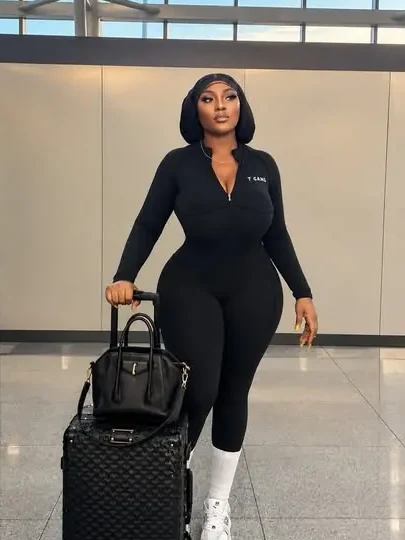
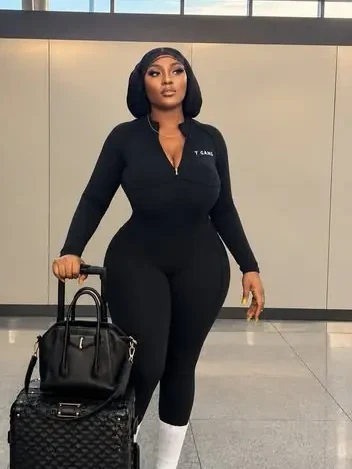
v17: tighter hero crop to remove airport sign

diff --git a/index.html b/index.html
@@ -1,7 +1,7 @@
 <!doctype html><html lang="en"><head><meta charset="utf-8"><meta name="viewport" content="width=device-width,initial-scale=1">
 <title>T.GANG — Chic & Gym Wear, Lagos</title><meta name="description" content="T.GANG: chic gym and activewear from Lagos. Matching sets, bodysuits, rompers and leggings. Shipping across Nigeria, Ghana and worldwide.">
-<link rel="preconnect" href="https://fonts.googleapis.com"><link rel="preconnect" href="https://fonts.gstatic.com" crossorigin><link rel="preconnect" href="https://cdn.jsdelivr.net" crossorigin><link rel="preload" as="image" href="assets/s/tg-06h.webp" fetchpriority="high"><link href="https://fonts.googleapis.com/css2?family=Cormorant+Garamond:ital,wght@0,300;0,400;0,500;1,300;1,400&family=Manrope:wght@400;500;600&display=swap" rel="stylesheet" media="print" onload="this.media='all'"><noscript><link href="https://fonts.googleapis.com/css2?family=Cormorant+Garamond:ital,wght@0,300;0,400;0,500;1,300;1,400&family=Manrope:wght@400;500;600&display=swap" rel="stylesheet"></noscript>
-<link rel="icon" href="assets/logo.jpg"><link rel="stylesheet" href="style.css?v=202610282367"></head><body>
+<link rel="preconnect" href="https://fonts.googleapis.com"><link rel="preconnect" href="https://fonts.gstatic.com" crossorigin><link rel="preconnect" href="https://cdn.jsdelivr.net" crossorigin><link rel="preload" as="image" href="assets/s/tg-06h.webp?v=2" fetchpriority="high"><link href="https://fonts.googleapis.com/css2?family=Cormorant+Garamond:ital,wght@0,300;0,400;0,500;1,300;1,400&family=Manrope:wght@400;500;600&display=swap" rel="stylesheet" media="print" onload="this.media='all'"><noscript><link href="https://fonts.googleapis.com/css2?family=Cormorant+Garamond:ital,wght@0,300;0,400;0,500;1,300;1,400&family=Manrope:wght@400;500;600&display=swap" rel="stylesheet"></noscript>
+<link rel="icon" href="assets/logo.jpg"><link rel="stylesheet" href="style.css?v=202610282368"></head><body>
 <div class="salebar"><a href="#shop" id="salelink"><b>The Sale</b> · up to 30% off selected pieces <span>· example prices</span></a></div>
 <header class="nav lux"><a href="#top" class="logo"><img class="mono" src="assets/logo.jpg" alt="T.GANG logo"><span>T.GANG</span></a>
 <nav class="pnav" aria-label="Primary"><a href="#shop">Shop</a><a href="#shop" data-cat="Lounge Outfits">Lounge</a><a href="#shop" data-cat="Active Wear">Active</a><a href="#shop" data-cat="Accessories">Accessories</a><a href="#drop">New drop</a><a href="rewards.html">Rewards</a><div class="more"><button type="button" class="morebtn" aria-expanded="false" aria-haspopup="true" aria-controls="moremenu">Discover <span class="chev" aria-hidden="true"></span></button><div class="moremenu" id="moremenu"><a href="#lookbook">Shop the look</a><a href="#build">Build your set</a><a href="#quiz">Style quiz</a><a href="giftcards.html">Gift cards</a></div></div></nav>
@@ -70,4 +70,4 @@
 <section class="v-proc"><div class="spin"></div><h3>Processing payment…</h3><p class="note">Please don't close this page.</p></section>
 <section class="v-ok"><div class="tick">✓</div><p class="eyebrow">Order confirmed</p><h3>Thank you, <span id="sname"></span>.</h3><p>Your order reference</p><div class="ref" id="sref"></div><p class="note" id="smeth"></p><a class="btn wide" id="swa" target="_blank" rel="noopener">Send confirmation on WhatsApp</a><button class="link bk" onclick="ck.classList.remove('open')">Continue shopping</button></section>
 </div></div>
-<script defer src="config.js?v=202610282367"></script><script defer src="https://cdn.jsdelivr.net/npm/@supabase/supabase-js@2.118.0/dist/umd/supabase.min.js"></script><script defer src="https://cdn.jsdelivr.net/npm/@simplewebauthn/browser@13.3.0/dist/bundle/index.umd.min.js"></script><script defer src="auth-config.js?v=202610282367"></script><script defer src="money.js?v=202610282367"></script><script defer src="account.js?v=202610282367"></script><script defer src="products.js?v=202610282367"></script><script defer src="app.js?v=202610282367"></script><script defer src="checkout.js?v=202610282367"></script><script defer src="features.js?v=202610282367"></script><script defer src="rewards.js?v=202610282367"></script><script defer src="nav.js?v=202610282367"></script></body></html>
+<script defer src="config.js?v=202610282368"></script><script defer src="https://cdn.jsdelivr.net/npm/@supabase/supabase-js@2.118.0/dist/umd/supabase.min.js"></script><script defer src="https://cdn.jsdelivr.net/npm/@simplewebauthn/browser@13.3.0/dist/bundle/index.umd.min.js"></script><script defer src="auth-config.js?v=202610282368"></script><script defer src="money.js?v=202610282368"></script><script defer src="account.js?v=202610282368"></script><script defer src="products.js?v=202610282368"></script><script defer src="app.js?v=202610282368"></script><script defer src="checkout.js?v=202610282368"></script><script defer src="features.js?v=202610282368"></script><script defer src="rewards.js?v=202610282368"></script><script defer src="nav.js?v=202610282368"></script></body></html>
